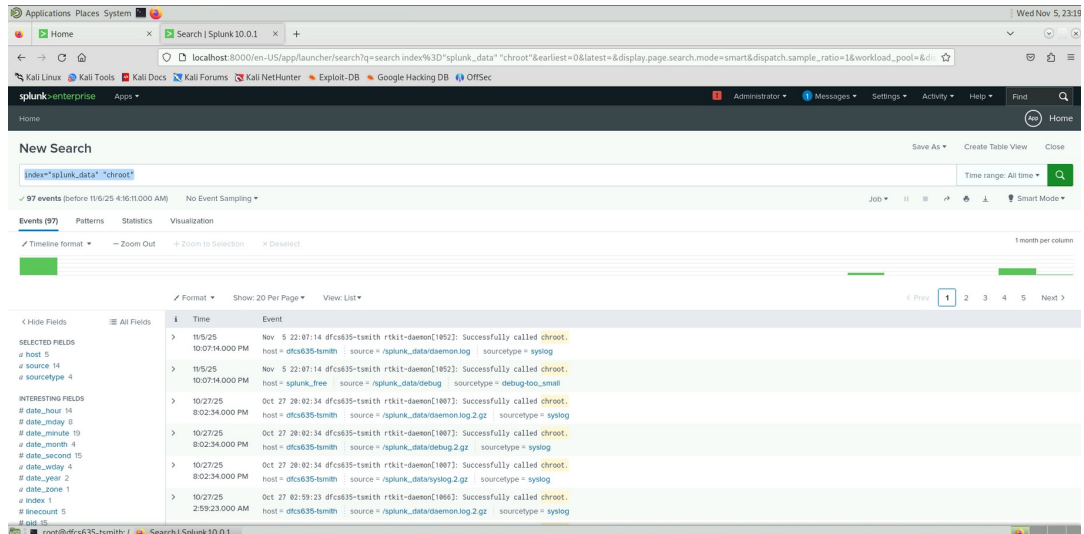
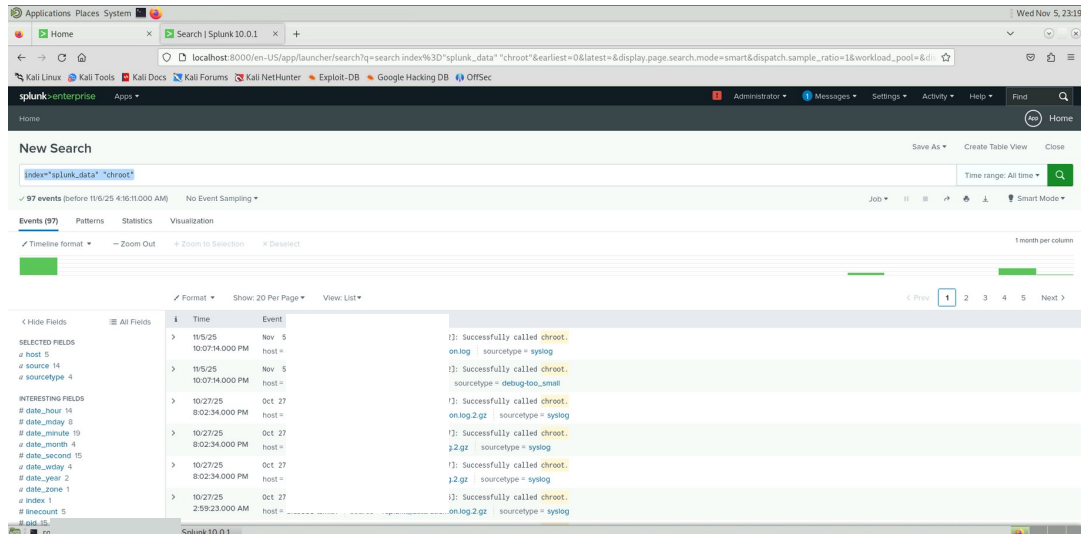
Redact institution name and course numbers from portfolio
Remove University of Maryland Global Campus watermarks and lab course
identifiers (CLCS 635, dfcs635) from text and screenshots.

Text:
- 04-Cloud-Infrastructure: 'CLCS 635 coursework lab' -> 'Graduate coursework lab'
- 01-Endpoint-Forensics/scans/linux-file-recovery: remove dfcs635-tsmith hostname
- README: note that lab-environment identifiers have been redacted

Screenshots (boxed out hostname/watermark):
- camouflaged-png-discovery, hidden-flag-files-recovery, exiv2-metadata-output
- vulners_terminal_output, private-key-access-results, chroot_query_results

Claude-Session: https://claude.ai/code/session_01MEWpXD3tmhPF4Tm4XcZfDj

Changed region(s): [[0.2435, 0.5993, 0.4262, 0.9588], [0.0304, 0.9588, 0.1827, 1.0]]

diff --git a/README.md b/README.md
@@ -24,4 +24,4 @@ This repository serves as a centralized archive of my digital forensics and cybe
     * *Focus:* Digital Forensic Investigation of Insider Threat, including chain-of-custody documentation and an evidence control log.
 
 ---
-*Note: All six projects originate from graduate DFIR coursework labs against instructor-provided or fictional scenarios, not real incidents. Some screenshots retain real lab-environment details (e.g., student account identifiers) from the source materials rather than being redacted.*
+*Note: All six projects originate from graduate DFIR coursework labs against instructor-provided or fictional scenarios, not real incidents. Lab-environment identifiers (host names and institutional watermarks) have been redacted from the screenshots.*

diff --git a/04-Cloud-Infrastructure/README.md b/04-Cloud-Infrastructure/README.md
@@ -6,7 +6,7 @@ A lab exercise in provisioning AWS network infrastructure through CloudFormation
 
 ## Environment
 
-CLCS 635 coursework lab, AWS Console (`us-east-2`, Ohio), student AWS Academy/Learner Lab account. Provisioning was done through the CloudFormation **Infrastructure Composer** tool — a drag-and-drop canvas that generates the underlying CloudFormation JSON as resources are added and their properties edited.
+Graduate coursework lab, AWS Console (`us-east-2`, Ohio), student AWS Academy/Learner Lab account. Provisioning was done through the CloudFormation **Infrastructure Composer** tool — a drag-and-drop canvas that generates the underlying CloudFormation JSON as resources are added and their properties edited.
 
 ## Tools
 

diff --git a/01-Endpoint-Forensics/scans/linux-file-recovery.md b/01-Endpoint-Forensics/scans/linux-file-recovery.md
@@ -1,7 +1,7 @@
 # Linux File Recovery Command Log
 
 **Target:** disk image mounted at `/mnt/linux_image`, plus block device `dev/loop0` for the carving step.
-**Environment:** Kali/root shell, `dfcs635-tsmith` session.
+**Environment:** Kali/root shell (lab environment).
 
 ---
 
